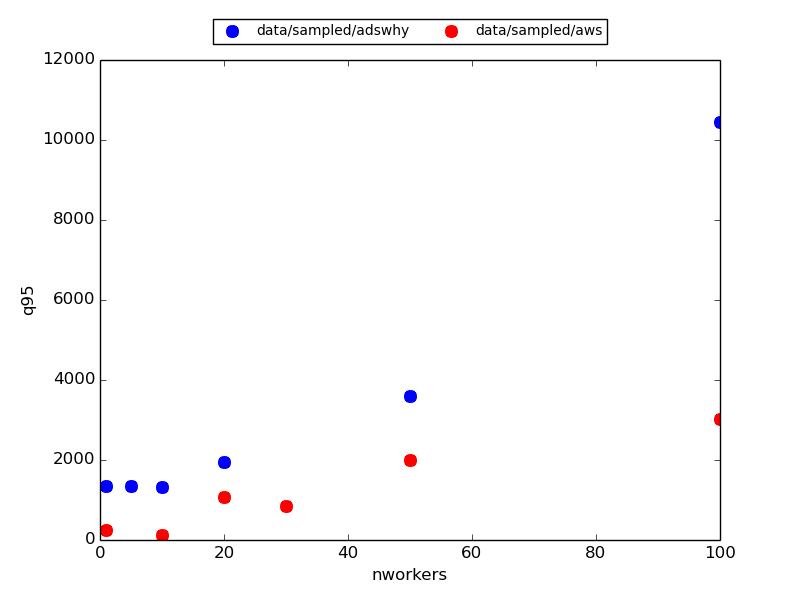
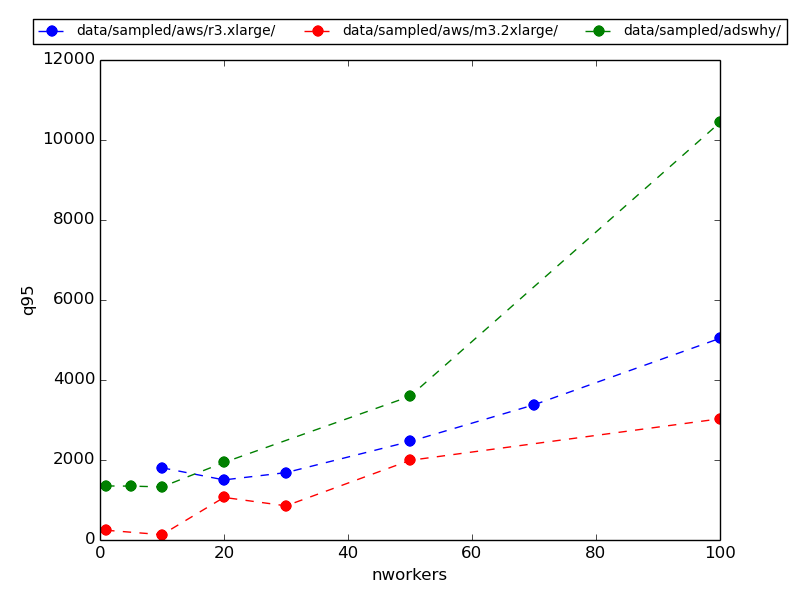
Update to solr-benchmarking

diff --git a/templates/solr_benchmarking.html b/templates/solr_benchmarking.html
@@ -38,27 +38,27 @@
 
         <div class="lead">
           <p>
-            As of mid 2014, the ADS maintains 10.4M documents, including all data (i.e., the text) and metadata related to a publication. The corpus grows at a rate of 10<sup>3</sup> to 10<sup>4</sup> documents per month. In ADS2.0, we indirectly expose this dataset to our users via a <a href='https://github.com/romanchyla/montysolr'>custom build</a> of <a href='http://lucene.apache.org/solr/'>Solr</a>, which in our case serves the dual purpose of the search index and document store<sup><a href="#fn1" id="ref1">1</a></sup>
+            As of mid 2014, the <a href="labs.adsabs.harvard.edu">ADS</a> maintains 10.4M documents, including all their data (i.e., the text) and metadata. The corpus grows at a rate of 10<sup>3</sup> to 10<sup>4</sup> documents per month. In ADS2.0, we indirectly expose this unique and rich dataset to our users via a <a href='https://github.com/romanchyla/montysolr'>custom build</a> of <a href='http://lucene.apache.org/solr/'>Solr</a>. In our case, Solr serves the dual purpose of the search index and document store<sup>1</sup>
           </p>
 
           <p>
-            Naturally, we require top performance from Solr. Our index size is already on the limits of what a single high-end server can handle under our traffic load. That's OK though, since we can distribute our index across many servers by leveraging the built-in <a href="https://cwiki.apache.org/confluence/display/solr/SolrCloud">distributed search</a> capabilities of Solr
+            We need top performance from Solr. Our index size is already on the limits of what a single high-end server can handle under our traffic load. That's OK though, since we can distribute our index across many servers by leveraging the <a href="https://cwiki.apache.org/confluence/display/solr/SolrCloud">distributed search</a> capabilities of Solr
           </p>
 
           <p>
-            We've elected to set up our SolrCloud using Amazon Web Services. On-demand instances allow us to quickly swap between different configurations of hardware, sharding, and replication in AWS quickly and efficiently. This enables us to optimize these parameters minimal monetary commitment, and in the future change the configuration based on increased traffic and/or index size. 
+            We've elected to set up our SolrCloud using Amazon Web Services (AWS). On-demand instances allow us to  swap between different configurations of hardware, sharding, and replication. AWS enables us to find the optimal hosting infrastructure with minimal monetary commitment.
           </p>
 
           <p>
-            The end goal is to abstract the deployment and hosting of our index to such an extent that handling an order of magnitude increase in traffic and/or corpus size (ADS for biologists, perhaps?) is a only<sup><a href="#fn2" id="ref1">2</a></sup> matter of making a few calls to the AWS API.
+            The end goal is to abstract the deployment and hosting of our index. When that goal is met, handling an order of magnitude increase in traffic and/or corpus size (ADS for biologists, perhaps?) is a only<sup>2</sup> matter of making a few calls to the AWS API.
           </p>
 
           <div class="footnotes">
             <p id="fn1">
-                1. We use a local durable data store from which we populate Solr, but neither Solr nor end users access this resource.<a href="#ref1" title="Jump back to footnote 1 in the text.">↩</a>
+                1. We use a local durable data store to populate Solr, but users don't access this resource.
             </p>
             <p id="fn2">
-                2. Well, and finding a way to increase our operating budget<a href="#ref1" title="Jump back to footnote 1 in the text.">↩</a>
+                2. Well, and increasing our operating budget
             </p>
           </div>
          
@@ -75,9 +75,9 @@
           <h3 class="text-muted">Creating sample queries</h3>
           <p>
             <img class="summary-image img-square img-responsive pull-left" alt="" src="/static/images/solr_benchmarking/elasticsearch_queries.png" style="height:35%; width:35%;">
-            To model an average user search, we use a set of 10,000 sequential queries parsed from the Solr logfiles starting on Jan. 1, 2014. The queries were generated by normal user traffic, and thus are expected be an accurate representation of actual ADS usage.
+            To model an average user search, we use a set of 10,000 sequential queries parsed from the Solr logfiles starting on Jan. 1, 2014. The queries were generated by normal user traffic, and thus should be an accurate representation of actual ADS usage.
 
-            The number of occurances of each query is shown on the right. There are just over 7000 unique queries in the entire set. Less than 1% of the queries occur more than twice. The unusual query that occurs ~100 times happens to be an unfielded search for "star": <code>/solr/select?wt=json&q=star</code>. We remove this query from the sample.
+            The number of occurrences of each query is shown on the right. There are just over 7000 unique queries in the entire set. Less than 1% of the queries occur more than twice. The unusual query that occurs ~100 times is an unfielded search for "star": <code>/solr/select?wt=json&q=star</code>. We remove this query from the sample, as this query is our internal test query.
           </p>
         </div>
       </div>
@@ -87,7 +87,7 @@
         <div class="lead">
           <h3 class="text-muted">Setting up the swarm</h3>
           <p>
-            We use <a href="locust.io">locust.io</a> to create a pool of workers that queries our solr endpoint. Our sample of queries is loaded into memory on worker import, and each worker is assigned a UUID. A worker sends a GET request to a single <code>random.choice(urls)</code>, which cooresponds to a query from our sample. The worker blocks until it recieves a response, after which it writes transactional metadata to a logfile, including its own UUID. This process repeats indefinitely. The swarm is composed of 1-100 of these workers, each simultaneously performing and recording their requests. 
+            We use <a href="locust.io">locust.io</a> to create a pool of workers that queries our solr endpoint. A worker loads our sample of queries into memory, and assigns itself a unique id (UUID). The worker sends a GET request to a single <code>random.choice(urls)</code>, which cooresponds to a query from our sample. The worker blocks until it recieves a response, after which it writes transactional metadata to a logfile, including its own UUID. This process repeats indefinitely. The swarm is composed of 1-100 workers, each performing and recording their requests.
           </p>
         </div>
       </div>
@@ -104,10 +104,10 @@
             </div>
           </div>
           <p>
-            Above are results from swarms with N=5 and N=50 workers against a single server with 145GBs RAM and 24 logical cores (Xeon X5680, 2010 CPU). The top panel in each figure is the cumulative distribution of Qtimes, and the bottom panel is the raw data. The 95% Qtime is the maximum time at which 95% of queries returned -- 95% of all queries took 1347ms or less when 5 workers were loading the server, and 3592ms with 50 workers. So, even though the raw data shows some really pronounced spikes, the cumulative distribution tells us that these long queries only occur a very small fraction of the time.
+            Above are results with N=5 and N=50 workers swarming against a single server with 145GBs RAM and 24 logical cores (Xeon X5680, 2010 CPU). The top panel in each figure is the cumulative distribution of Qtimes, and the bottom panel is the raw data. The 95% Qtime is the longest time at which 95% of queries returned -- 95% of all queries took 1347ms or less when 5 workers were loading the server, and 3592ms with 50 workers. So, even though the raw data shows pronounced spikes, the cumulative distribution tells us that these long queries only occur a very small fraction of the time.
           </p>
           <p>
-            Even though these long query spikes are infrequent, it could still be useful to understand what causes them. Our initial thought was that these long delays arise from garbage collection pauses: The JVM may be using all of its allocated memory before removing old objects to free up memory. An analogy is cleaning the house only once it becomes really messy as opposed to cleaning a little bit every day. If the house is really big (large heap size) and full of clutter (large fraction of the heap allocated), it will take a long time to clean (long GC time).
+            Even though these long query spikes are infrequent, it could still be useful to understand what causes them. Our initial thought was that these long delays arise from garbage collection pauses: The JVM may be using all its allocated memory before removing old objects to free up memory. An analogy is cleaning the house only once it becomes completely messy as opposed to cleaning a little bit every day. If the house is big (large heap size) and full of clutter (large fraction of the heap allocated), it will take a long time to clean (long GC time).
           </p>
           <div class="row">
             <div class="col-sm-12">
@@ -115,7 +115,7 @@
             </div>
           </div>
           <p>
-            If these queries are blocked due to GC pauses, and if on average there are the same number an complexity of queries coming in, we should expect some periodicity in those big spikes. But, the power spectrum from the Fourier transform of the data don't show any dominant frequencies. We conclude that we aren't seeing long GC pauses, but rather just some queries from the sample are extremely expensive to perform. We have the data to coorelate query with average Qtime, and so this idea should be tested when we look into it.
+            If these spikes in Qtime are due to GC pauses, one would expect periodicity in those big spikes. However, we don't see this: the power spectrum from the Fourier transform of the data don't show any dominant frequencies. We conclude that we aren't seeing long GC pauses, but rather just some particularly expensive queries. We have the data to coorelate query with Qtime, so this hypothesis can and eventually should be tested.
           </p>
         </div>
       </div>
@@ -125,7 +125,14 @@
         <div class="lead">
           <h3 class="text-muted">What about distributed search?</h3>
           <p>
-            We compare the performance of our server above with a sharded environment hosted on AWS. The AWS components consist of 4 identical VMs (m3.2xlarge: 30GB ram, 26 ECU, and SSD backed EBS) that create a SolrCloud with 2 shards and a replication factor 2. The zookeeper ensemble consists of 3 VMs (m1.large: 7.5GB ram, 4 ECUs, magnetic instance store backed). The JVM of each solr instance is set to 60% of the physical ram, which is 18 GB for the m3.2xlarge instances.
+            <!-- <table class="table table-hover table-condensed">
+              <tr>
+                <td>Environment</td>
+                <td>RAM</td>
+                <td>CPUs</td>
+              </tr>
+            </table>
+ -->
           </p>
 
           <div class="row">
@@ -140,13 +147,14 @@
             </div>
           </div>
           <p>
-            In each figure, the blue points and red points coorespond to the in-house single shard and AWS hosted SolrCloud setups, respectively. In all cases, the sharded environment outperforms the in-house setup, at least for the hardware described above. Qtimes are consistently and significantly lower even for low load. In the middle figure, we can see that the in-house setup starts to have trouble serving more than ~20 workers, while the SolrCloud setup starts to flatten out at around 60. The scatter from the SolrCloud setup is thought to be due to a combination of using a cold EBS volumes, and the ELB in front of the setup still scaling up. 
+            In all cases, the sharded environment outperforms the in-house setup. Qtimes are consistently and significantly lower, even for low load. In the middle figure, we can see that the in-house setup has trouble serving more than ~20 workers, while the SolrCloud setups starts to run into these limits at a higher traffic load.
           </p>
 
           <p>
-            Though all of this data is already goes a long way in quantifying performance of the ADS backend, there are still many routes that would be interesting to explore:
+            Though all of this data is already goes a long way in quantifying performance of a SolrCloud-based ADS backend, there are still many routes that would be interesting to explore:
               <ul>
                 <li> Compare different sharding and replication factors
+                <li> Check at what points the bottleneck are CPU, or I/O.
                 <li> Compare different VMs hosting Solr and Zookeeper
                 <li> Use a <a href="https://github.com/romanchyla/solrjmeter/tree/master/queries/adsabs">set of queries</a> that target certain Solr operations 
                 <li> Measure performance under indexing and/or recovery operations
@@ -172,16 +180,75 @@
     </div> -->
 
 
-
-<!--     <hr class="summary-divider" />
+    <hr class="summary-divider" />
     <div class="summary">
-        <img class="summary-image img-suqare img-responsive pull-right" alt="Bootstrap template" src="http://placehold.it/500x500">
-        <h2 class="summary-heading">
-            foo <span class="text-muted">bar</span>
+      <!--   <img class="summary-image img-suqare img-responsive pull-right" alt="Bootstrap template" src="http://placehold.it/500x500"> -->
+        <a name="problems"></a><h2 class="summary-heading">
+            Problems with distributed search</br><span class="text-muted">Relational data</span>
         </h2>
-        <p class="lead">
-            baz
-        </p> -->
+        <p>
+          ADS2.0 supports "second-order operators" which return relational data for a set of documents. A user can give ADS2.0 the query <code>citations(chandra)</code>. In this example, Solr first finds a set of documents (~50K documents) that match the non-fielded <code>chandra</code> search. Before relevancy ranking and pagination, Solr then applies the <code>citations()</code> operator on the set, which compiles a new list of results that are populated by each document's multi-valued <code>citations</code> field (270k documents). It is this final list that gets ranked and paginated, and finally sent to the user.
+        </p>
+
+        <p>
+          In a sharded environment, this process happens in each shard. The relational link between a document in shard A that references a document in shard B will not be followed. Instead, we would require that Solr export all documents at every step to some master process. The master process would then be responsible for re-sending the seeded query to both shards, repeating the process until the final query has been satisfied. This process becomes prohibitively time consuming when the initial query returns more than a few thousand documents.
+        </p>
+
+        <p>
+          There are several solutions to this problem<sup>1</sup>, but none that are ideal. We test if an AWS setup of SolrCloud<sup>2</sup> with nshards=1 if able to meet our current needs.
+        </p>
+
+
+        <div class="footnotes">
+          <p id="fn1">
+              1. Sharding/routing a document based on a its relationships, or using another service optimized for performing relational lookups
+          </p>
+          <p id="fn1">
+              2. We prefer SolrCloud style replication instead of traditional M-S replication since leader election is automated. Contrastingly, M-S replication requires one to expliticly define a leader.
+          </p>
+        </div>
+
+        <div class="summary">
+        <div class="lead">
+          <h3 class="text-muted">Xmx results with nshards=1</h3>
+          <div class="row">
+            <div class="col-sm-6">
+              <img class="img-square img-responsive pull-left" alt="" src="/static/images/solr_benchmarking/r3.4xlarge_req_per_sec_vs_nworkers.png">
+            </div>
+            <div class="col-sm-6">
+              <img class="img-square img-responsive pull-right" alt="" src="/static/images/solr_benchmarking/r3.4xlarge_q95_vs_nworkers.png">
+            </div>
+          </div>
+          <div class="row">
+            <div class="col-sm-6">
+              <img class="img-square img-responsive pull-right" alt="" src="/static/images/solr_benchmarking/r3.4xlarge_q95_vs_req_per_sec.png">
+            </div>
+            <div class="col-sm-6">
+              <img class="img-square img-responsive pull-right" alt="" src="/static/images/solr_benchmarking/r3.4xlarge_median_qt_vs_req_per_sec.png">
+            </div>
+          </div>
+          <p>
+            We test r3.4xlarge (122 GB ram, 52 ECU) with nshards=1 and replication=1 for different Xmx of 75%,60%,45%,35% of the physical ram (92214, 73771, 55328, and 43033 MB). Below are the same figures with r3.xlarge nshards=2 setup.
+          </p>
+
+          <div class="row">
+            <div class="col-sm-6">
+              <img class="img-square img-responsive pull-left" alt="" src="/static/images/solr_benchmarking/r3.4xlarge_req_per_sec_vs_nworkers_all.png">
+            </div>
+            <div class="col-sm-6">
+              <img class="img-square img-responsive pull-right" alt="" src="/static/images/solr_benchmarking/r3.4xlarge_q95_vs_nworkers_all.png">
+            </div>
+          </div>
+          <div class="row">
+            <div class="col-sm-6">
+              <img class="img-square img-responsive pull-right" alt="" src="/static/images/solr_benchmarking/r3.4xlarge_q95_vs_req_per_sec_all.png">
+            </div>
+            <div class="col-sm-6">
+              <img class="img-square img-responsive pull-right" alt="" src="/static/images/solr_benchmarking/r3.4xlarge_median_qt_vs_req_per_sec_all.png">
+            </div>
+          </div>          
+      </div>
+
     </div>
     <hr />
 {% endblock %}
